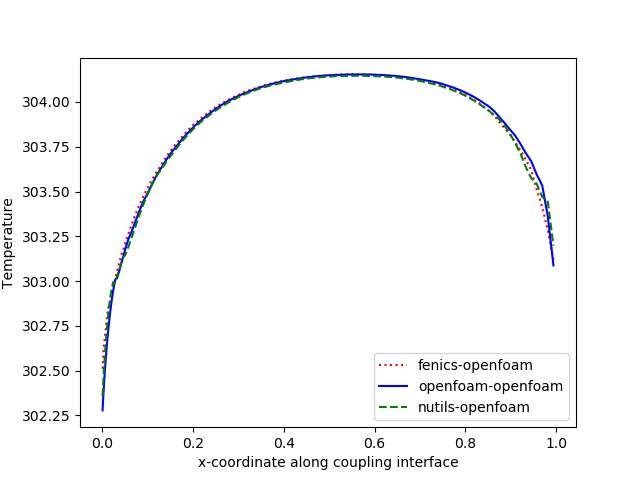
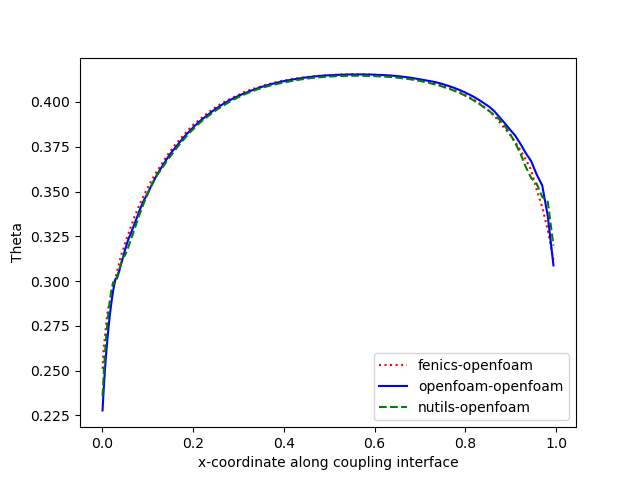
Plot theta.

diff --git a/flow-over-heated-plate/plot-final-interface-temperature.py b/flow-over-heated-plate/plot-final-interface-temperature.py
@@ -1,5 +1,6 @@
 import vtk
 from matplotlib import pyplot as plt
+import numpy as np
 
 
 def vtk_to_dict(case):
@@ -49,11 +50,12 @@ i = 0
 
 for case in cases:
     case_data = vtk_to_dict(case)
-    x, t = [p[0] for p in case_data.keys()], list(case_data.values())
-    plt.plot(x, t, colors[i%4]+styles[i%3], label=case_labels[case])
+    x, t = [p[0] for p in case_data.keys()], np.array(list(case_data.values()))
+    theta = (t - 300) / (310 - 300)
+    plt.plot(x, theta, colors[i%4]+styles[i%3], label=case_labels[case])
     i += 1
 
-plt.ylabel("Temperature")
+plt.ylabel("Theta")
 plt.xlabel("x-coordinate along coupling interface")
 plt.legend()
 plt.show()

diff --git a/flow-over-heated-plate/README.md b/flow-over-heated-plate/README.md
@@ -76,7 +76,7 @@ index 9c13374..c18a49e 100644
        <mapping:nearest-neighbor
 ```
 
-After that running a case from this tutorial will export data into `solid-*/preCICE-output`. To visualize and compare these results run `python3 plot-final-interface-temperature.py`. This will plot the temperature across the coupling interface, i.e. where the solid and the fluid meet and exchange heat. The x-axis shows the x coordinate and the y-axis the temperature at the interface. If you want to exclude certain cases, simply comment out the corresponding lines in the script. For reference see below:
+After that running a case from this tutorial will export data into `solid-*/preCICE-output`. To visualize and compare these results run `python3 plot-final-interface-temperature.py`. This will plot `theta = (T-300)/(310-300)` (with `T` being the temperature) across the coupling interface, i.e. where the solid and the fluid meet and exchange heat. The x-axis shows the x coordinate and the y-axis `theta` at the interface. If you want to exclude certain cases, simply comment out the corresponding lines in the script. For reference see below:
 
 ![](images/tutorials-flow-over-heated-plate-results-comparison.png)
 
